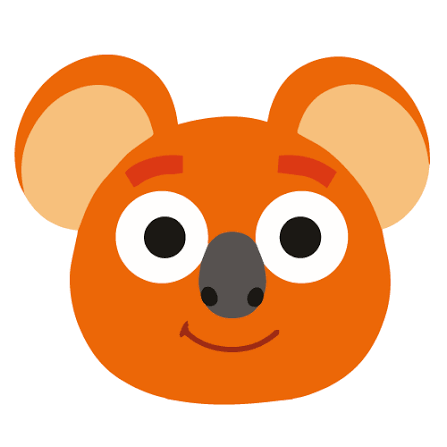
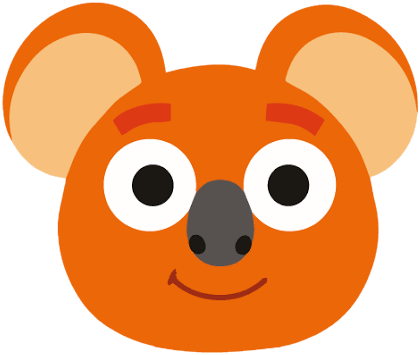
Chat : koala seul, sans fond blanc
Claude-Session: https://claude.ai/code/session_01KFegCVMhHRda7yPiYEFY34

diff --git a/js/support-chat.js b/js/support-chat.js
@@ -81,8 +81,7 @@
     const st = document.createElement('style');
     st.id = 'kk-sc-style';
     st.textContent = `
-#kk-sc-btn{position:fixed;right:24px;bottom:88px;z-index:9990;width:88px;height:58px;border-radius:50%;border:none;cursor:pointer;background:#fff;color:#fff;font-size:24px;padding:0;filter:drop-shadow(0 4px 8px rgba(0,0,0,.28));display:flex;align-items:center;justify-content:center;font-family:inherit}
-#kk-sc-btn::after{content:'';position:absolute;left:-4px;top:-4px;width:18px;height:18px;background:#fff;clip-path:polygon(100% 100%,0 100%,0 0);pointer-events:none}
+#kk-sc-btn{position:fixed;right:24px;bottom:88px;z-index:9990;width:70px;height:60px;border-radius:0;border:none;cursor:pointer;background:transparent;color:#fff;font-size:24px;padding:0;filter:drop-shadow(0 4px 8px rgba(0,0,0,.28));display:flex;align-items:center;justify-content:center;font-family:inherit}
 #kk-sc-btn:hover{filter:brightness(1.08)}
 #kk-sc-btn.kk-sc-pulse{animation:kkScPulse 1.6s infinite}
 @keyframes kkScPulse{0%,100%{box-shadow:0 4px 14px rgba(0,0,0,.28),0 0 0 0 rgba(244,121,32,.55)}50%{box-shadow:0 4px 14px rgba(0,0,0,.28),0 0 0 12px rgba(244,121,32,0)}}
@@ -129,7 +128,7 @@
     btn.type = 'button';
     btn.title = me.direction ? 'Messages de vos équipes' : 'Un problème ? Écrivez-nous';
     btn.setAttribute('aria-label', btn.title);
-    btn.innerHTML = '<img src="koala-chat.png" alt="Messages" style="width:54px;height:54px;margin-left:8px;border-radius:50%;pointer-events:none"><span id="kk-sc-badge"></span>';
+    btn.innerHTML = '<img src="koala-chat.png" alt="Messages" style="width:70px;height:auto;pointer-events:none"><span id="kk-sc-badge"></span>';
     btn.addEventListener('click', basculer);
 
     const panel = document.createElement('div');

diff --git a/demandes.html b/demandes.html
@@ -2709,7 +2709,7 @@
 <script src="js/pmi/01-export-planning-pmi-excel-planning-equip.js"></script>
 <script src="js/pmi/02-structure-du-modele-pmi-officiel-feuille.js"></script>
 <script src="js/login-alert.js"></script>
-<script src="js/support-chat.js?v=10"></script>
+<script src="js/support-chat.js?v=11"></script>
 <script src="js/dashboard-referente.js"></script>
 <script src="js/frais-ik.js"></script>
 <script src="js/pages/demandes-2.js"></script>

diff --git a/factures.html b/factures.html
@@ -151,7 +151,7 @@
 <script src="js/pages/factures/01-memorisation-de-l-appareil-evite-de-rede.js"></script>
 <script src="js/pages/factures/02-part.js"></script>
 <script src="js/login-alert.js"></script>
-<script src="js/support-chat.js?v=10"></script>
+<script src="js/support-chat.js?v=11"></script>
 <script src="js/garde-modales.js"></script>
 </body>
 </html>

diff --git a/inscriptions.html b/inscriptions.html
@@ -662,7 +662,7 @@
 <script src="js/pages/inscriptions/05-part.js"></script>
 <script src="js/pages/inscriptions/06-relances.js"></script>
 <script src="js/login-alert.js"></script>
-<script src="js/support-chat.js?v=10"></script>
+<script src="js/support-chat.js?v=11"></script>
 <script src="js/garde-modales.js"></script>
 </body>
 </html>

diff --git a/employes.html b/employes.html
@@ -172,7 +172,7 @@
 <script src="js/pages/employes/01-core.js"></script>
 <script src="js/pages/employes/02-part.js"></script>
 <script src="js/login-alert.js"></script>
-<script src="js/support-chat.js?v=10"></script>
+<script src="js/support-chat.js?v=11"></script>
 <script src="js/garde-modales.js"></script>
 </body>
 </html>

diff --git a/parametres.html b/parametres.html
@@ -348,7 +348,7 @@
 <script src="js/pages/parametres.js"></script>
 <script src="js/pages/parametres-archives.js"></script>
 <script src="js/login-alert.js"></script>
-<script src="js/support-chat.js?v=10"></script>
+<script src="js/support-chat.js?v=11"></script>
 <script src="js/garde-modales.js"></script>
 </body>
 </html>

diff --git a/contrats.html b/contrats.html
@@ -409,7 +409,7 @@
 <script src="js/pages/contrats/03-part.js"></script>
 <script src="js/stats-contrats.js"></script>
 <script src="js/login-alert.js"></script>
-<script src="js/support-chat.js?v=10"></script>
+<script src="js/support-chat.js?v=11"></script>
 <script src="js/garde-modales.js"></script>
 </body>
 </html>

diff --git a/infirmerie.html b/infirmerie.html
@@ -259,7 +259,7 @@
 <script src="js/coffre-journal.js"></script>
 <script src="js/pages/infirmerie.js"></script>
 <script src="js/login-alert.js"></script>
-<script src="js/support-chat.js?v=10"></script>
+<script src="js/support-chat.js?v=11"></script>
 <script src="js/garde-modales.js"></script>
 </body>
 </html>

diff --git a/suivi.html b/suivi.html
@@ -58,7 +58,7 @@
 <script src="js/renvoi-employe.js"></script>
 <script src="js/pages/suivi.js"></script>
 <script src="js/login-alert.js"></script>
-<script src="js/support-chat.js?v=10"></script>
+<script src="js/support-chat.js?v=11"></script>
 <script src="js/garde-modales.js"></script>
 </body>
 </html>

diff --git a/terrain.html b/terrain.html
@@ -125,7 +125,7 @@
 <script src="js/branding.js"></script>
 <script src="js/pages/terrain.js"></script>
 <script src="js/login-alert.js"></script>
-<script src="js/support-chat.js?v=10"></script>
+<script src="js/support-chat.js?v=11"></script>
 <script src="js/garde-modales.js"></script>
 </body>
 </html>

diff --git a/stock.html b/stock.html
@@ -865,7 +865,7 @@ window.kkSupportSession = function () {
     ? { user: SK_USER, access_token: SK_TOKEN } : null;
 };
 </script>
-<script src="js/support-chat.js?v=10"></script>
+<script src="js/support-chat.js?v=11"></script>
 <script src="js/garde-modales.js"></script>
 </body>
 </html>

diff --git a/documents.html b/documents.html
@@ -411,7 +411,7 @@ if('serviceWorker' in navigator){
 }
 </script>
 <script src="js/login-alert.js"></script>
-<script src="js/support-chat.js?v=10"></script>
+<script src="js/support-chat.js?v=11"></script>
 <script src="js/garde-modales.js"></script>
 </body>
 </html>
